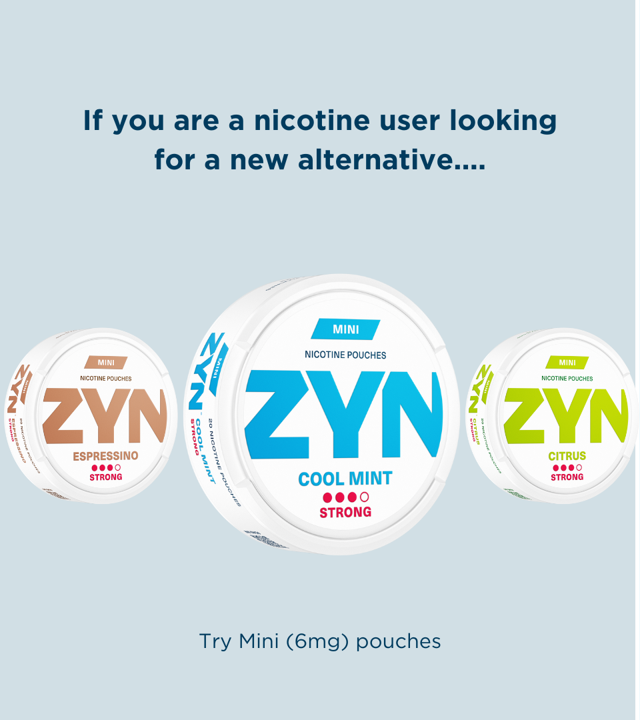
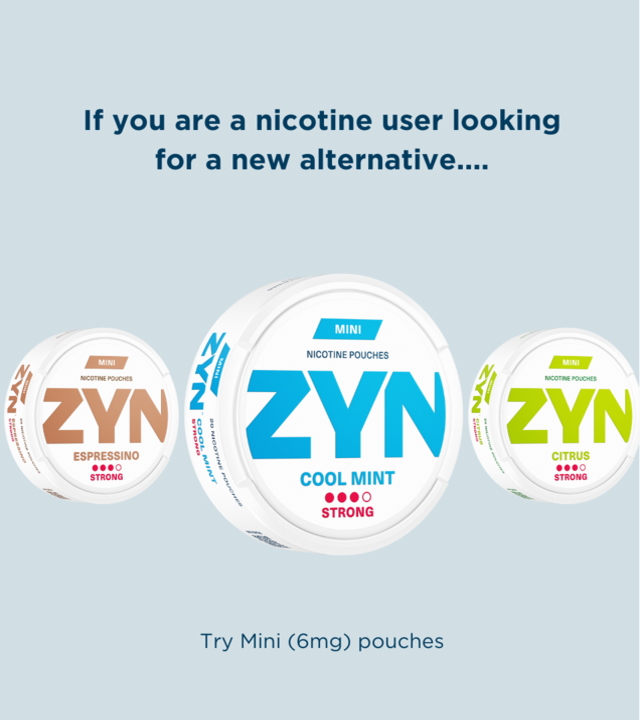
image update

diff --git a/src/pages/whichZyn/Strength.module.css b/src/pages/whichZyn/Strength.module.css
@@ -1,17 +1,18 @@
 .imageSection {
 	width: 100%;
 	display: flex;
-	justify-content: center;
+	justify-content: space-between;
 }
 
-
+.img {
+	width: 100%;
+}
 
 .imageWrapper {
-	width: fit-content;
-	height: fit-content;
 	display: flex;
 	flex-direction: column;
 	padding-bottom: 30px;
+	width: 100%;
 }
 
 .left {
